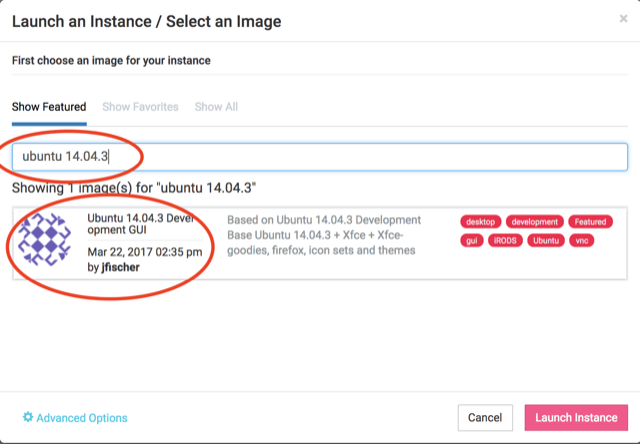
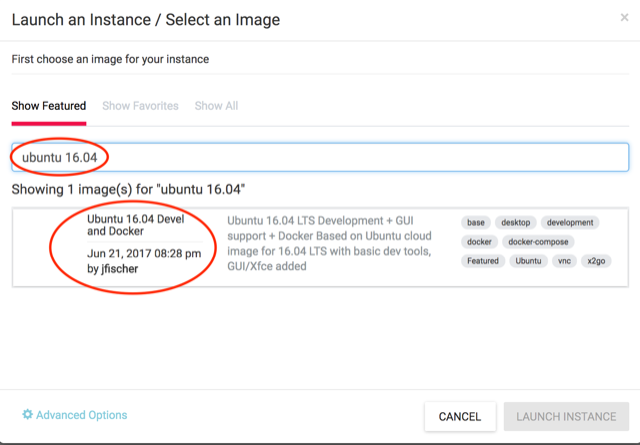
upd boot tutorial with ubuntu 16.04

diff --git a/jetstream/boot.md b/jetstream/boot.md
@@ -9,7 +9,7 @@ in red.
 
 Some of the details may vary -- for example, if you have your own XSEDE
 account, you may want to log in with that -- and the name of the operating
-system or "image" may also vary from "Ubuntu 14.04.03" depending on the
+system or "image" may also vary from "Ubuntu 16.04" depending on the
 workshop.
 
 -----
@@ -70,16 +70,16 @@ Now, select 'New' to start up a new machine.
 
 [![foo](images/login-8.thumb.png)(../_images/login-8.png)
 
-## Find the "Ubuntu 14.04.3" image, click on it
+## Find the "Ubuntu 16.04" image, click on it
 
-Enter "Ubuntu 14.04.3" into the search bar - make sure it's from
-March 22nd, 2017.
+Enter "Ubuntu 16.04" into the search bar - make sure it's from
+June 21st, 2017.
 
 [![foo](images/login-9.thumb.png)(../_images/login-9.png)
            
 ## Name it something simple and select 'm1.medium'
 
-Change the name after what we're doing - "UCSC workshop", for example,
+Change the name after what we're doing - "workshop tutorial", for example,
 but it doesn't matter -- and select 'm1.medium'.
 
 [![foo](images/login-10.thumb.png)(../_images/login-10.png)
